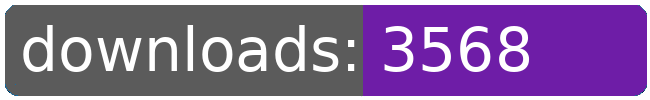
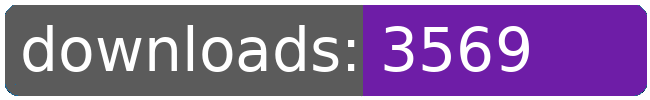
dl log written

Changed region(s): [[0.7692, 0.27, 0.8308, 0.72]]

diff --git a/README.md b/README.md
@@ -32,8 +32,8 @@
 		<td>3502</td>
 		<td>3529</td>
 		<td>3556</td>
-		<td>3568</td>
-		<td>+ 12</td>
+		<td>3569</td>
+		<td>+ 13</td>
 	</tr>
 	<tr>
 		<td>avgi.outfitter</td>
@@ -153,8 +153,8 @@
 		<td>2499</td>
 		<td>2526</td>
 		<td>2546</td>
-		<td>2553</td>
-		<td>+ 7</td>
+		<td>2554</td>
+		<td>+ 8</td>
 	</tr>
 	<tr>
 		<td>purchase.bactrian</td>
@@ -274,8 +274,8 @@
 		<td></td>
 		<td></td>
 		<td></td>
-		<td>49330</td>
-		<td>165</td>
+		<td>49332</td>
+		<td>167</td>
 	</tr>
 </table>
 </sub></sup>
@@ -300,8 +300,8 @@
 		<td>3502</td>
 		<td>3529</td>
 		<td>3556</td>
-		<td>3568</td>
-		<td>+ 12</td>
+		<td>3569</td>
+		<td>+ 13</td>
 	</tr>
 	<tr>
 		<td>bunrodeaoutfitter</td>
@@ -399,8 +399,8 @@
 		<td>2499</td>
 		<td>2526</td>
 		<td>2546</td>
-		<td>2553</td>
-		<td>+ 7</td>
+		<td>2554</td>
+		<td>+ 8</td>
 	</tr>
 	<tr>
 		<td>unlimited.dfc</td>
@@ -553,8 +553,8 @@
 		<td></td>
 		<td></td>
 		<td></td>
-		<td>49330</td>
-		<td>165</td>
+		<td>49332</td>
+		<td>167</td>
 	</tr>
 </table>
 </sub></sup>
